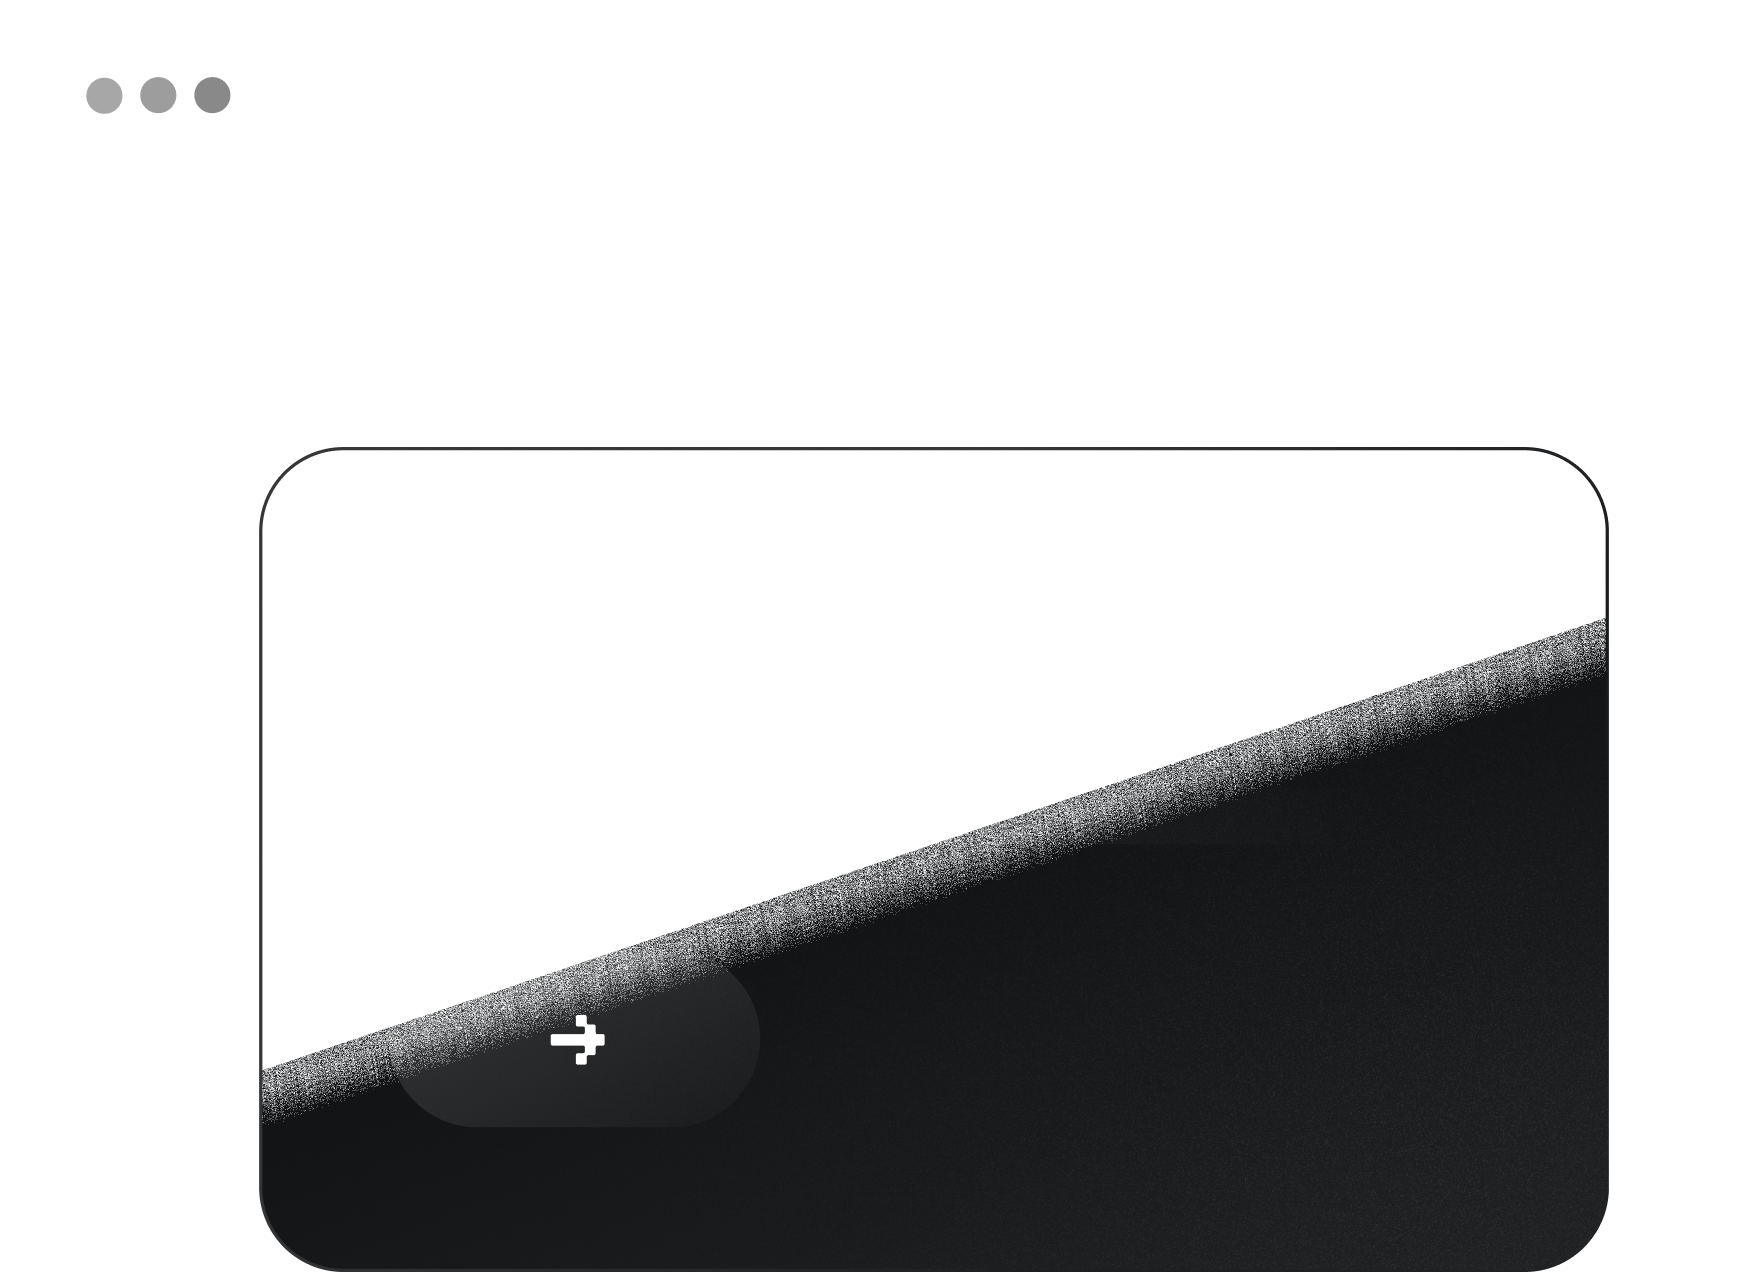
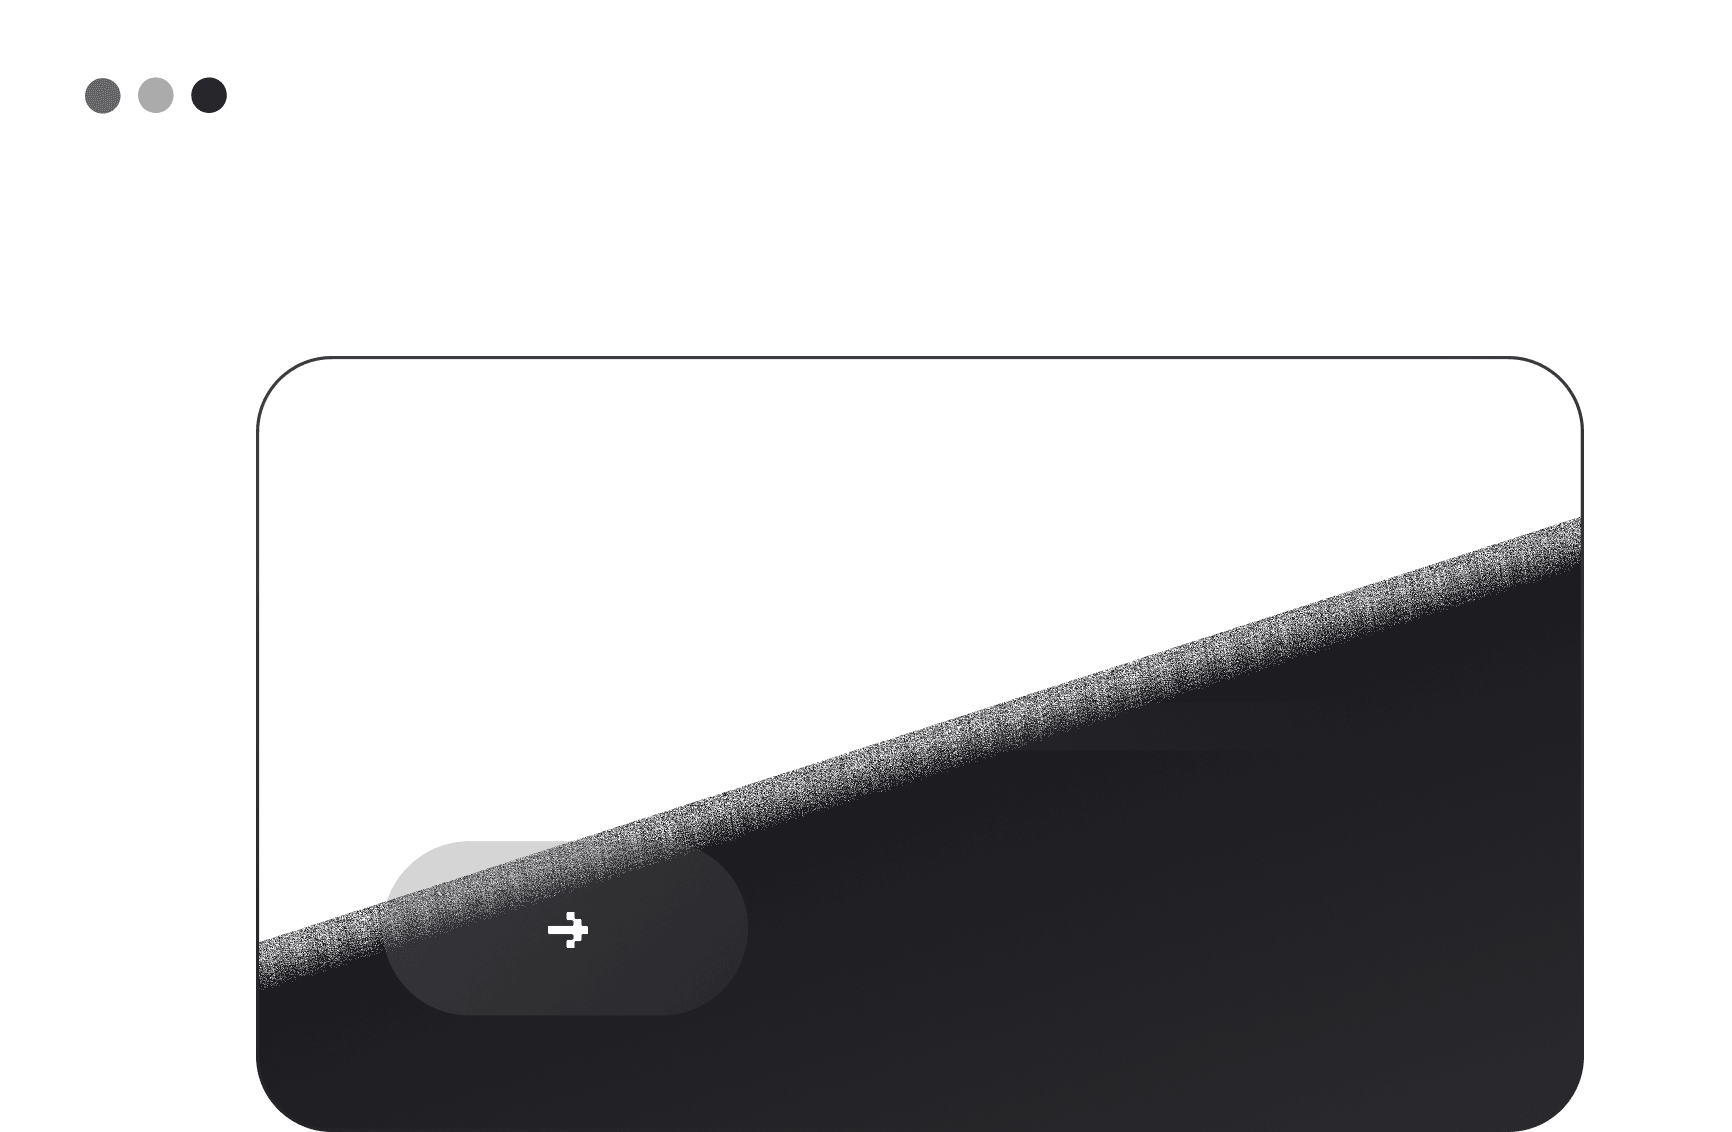
docs: update image + disable autorun for examples

diff --git a/docs/.vitepress/theme/Layout.vue b/docs/.vitepress/theme/Layout.vue
@@ -1,13 +1,18 @@
 <template>
   <DefaultTheme.Layout>
     <template #home-hero-image>
-      <img src="/images/hero@2x.png" alt="hero" width="880" height="636">
+      <VPImage
+        :image="{ light: '/images/hero-light@2x.png', dark: '/images/hero@2x.png' }"
+        alt="hero"
+        width="866"
+        height="566"
+      />
     </template>
   </DefaultTheme.Layout>
 </template>
 
 <script setup>
-import DefaultTheme from 'vitepress/theme'
+import DefaultTheme, { VPImage } from 'vitepress/theme'
 </script>
 
 <style scoped>

diff --git a/docs/docs/guide/examples.md b/docs/docs/guide/examples.md
@@ -2,7 +2,7 @@
 
 ## Show modal
 
-::: sandbox {rtl template=vite-vue-ts}
+::: sandbox {rtl template=vite-vue-ts autorun=false}
 ```vue src/Preview.vue [active]
 <template>
   <div>
@@ -31,7 +31,7 @@ function open() {
 ## Wait to close
 When opening a modal, a promise will be returned, which can be awaited until the modal is closed.
 
-::: sandbox {rtl template=vite-vue-ts}
+::: sandbox {rtl template=vite-vue-ts autorun=false}
 ```vue src/Preview.vue [active]
 <template>
   <div class="flex items-center gap-4">
@@ -66,7 +66,7 @@ async function open() {
 ## Return payload
 You can return any payload when closing a modal. If you close modal by clicking on background or pressing Esc an `undefined` value will be returned.
 
-::: sandbox {rtl template=vite-vue-ts}
+::: sandbox {rtl template=vite-vue-ts autorun=false}
 ```vue src/Preview.vue [active]
 <template>
   <div class="flex items-center gap-4">
@@ -123,7 +123,7 @@ async function save() {
 ## Using listeners
 When opening a modals you can provide listeners that will be called when components emits an event.
 
-::: sandbox {rtl template=vite-vue-ts}
+::: sandbox {rtl template=vite-vue-ts autorun=false}
 ```vue src/Preview.vue [active]
 <template>
   <div class="flex items-center gap-4">
@@ -179,7 +179,7 @@ function update() {
 ## Fetching data
 Sometimes you might need to load extra data before displaying the modal. There is an option for that.
 
-::: sandbox {rtl template=vite-vue-ts}
+::: sandbox {rtl template=vite-vue-ts autorun=false}
 ```vue src/Preview.vue [active]
 <template>
   <div>
@@ -216,7 +216,7 @@ function open() {
 ## Confirm
 Modals are often used when displaying confirm action. There is a utility method that makes it easier.
 
-::: sandbox {rtl template=vite-vue-ts}
+::: sandbox {rtl template=vite-vue-ts autorun=false}
 ```vue src/Preview.vue [active]
 <template>
   <div>
